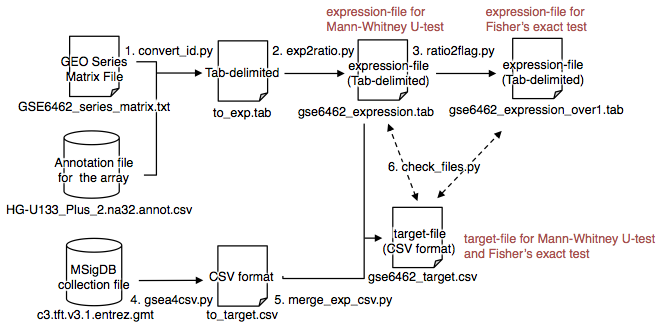
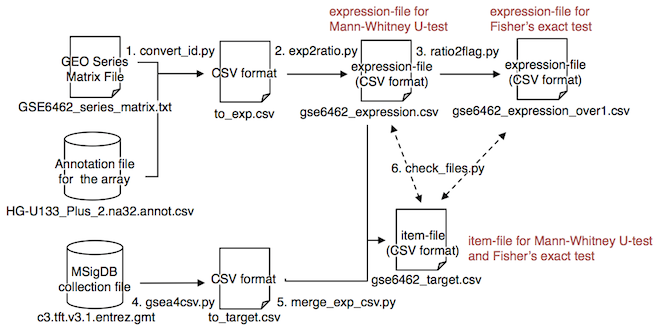
modify data preparation

diff --git a/data_preparation.html b/data_preparation.html
@@ -105,16 +105,16 @@
 
 <p>First, please download these files and decompress them in <code>lamp</code> directory. Then, try the following 6 commands:</p>
 
-<pre><code>$ python convert_id.py HG-U133_Plus_2.na32.annot.csv GSE6462_series_matrix.txt to_exp.tab
-$ python exp2ratio.py -t 12 to_exp.tab gse6462_expression.tab
-$ python ratio2flag.py gse6462_expression.tab 1.0 gse6462_expression_over1.tab
-$ python gsea4csv.py c3.tft.v3.0.entrez.gmt to_target.csv
-$ python merge_exp_csv.py gse6462_expression.tab to_target.csv gse6462_target.csv
-$ python check_files.py gse6462_target.csv gse6462_expression.tab</code></pre>
+<pre><code>$ python convert_id.py HG-U133_Plus_2.na32.annot.csv GSE6462_series_matrix.txt to_exp.csv
+$ python exp2ratio.py -t 12 to_exp.csv gse6462_expression.csv
+$ python ratio2flag.py gse6462_expression.csv 1.0 gse6462_expression_over1.csv
+$ python gsea4csv.py c3.tft.v3.0.entrez.gmt to_item.csv
+$ python merge_exp_csv.py gse6462_expression.csv to_item.csv gse6462_item.csv
+$ python check_files.py gse6462_item.csv gse6462_expression.csv</code></pre>
 
-<p><code>gse6462_expression.tab</code>, <code>gse6462_expression_over1.tab</code> and <code>gse6462_target.csv</code> are generated by the above commands. The commands generate two other intermediate files: <code>to_exp.txt</code> and <code>to_target.csv</code>. The next figure illustrates the flow of the conversion files.</p>
+<p><code>gse6462_expression.csv</code>, <code>gse6462_expression_over1.csv</code> and <code>gse6462_item.csv</code> are generated by the above commands. The commands generate two other intermediate files: <code>to_exp.csv</code> and <code>to_item.csv</code>. The next figure illustrates the flow of the conversion files.</p>
 
-<p><img alt='Image not found' src='images/flow.png' /></p>
+<p><img src='images/flow.png' alt='Image not found' /></p>
 
 <p>The flow is derived from the 6 codes:</p>
 
@@ -137,7 +137,7 @@ $ python check_files.py gse6462_target.csv gse6462_expression.tab</code></pre>
 <dl>
 <dt>exp2ratio.py</dt>
 
-<dd>This code is written for the <code>GSE6462_series_matrix.txt</code>, which calculates target-condition&#8217;s log2 ratio of the expression levels to the control conditions for each gene.</dd>
+<dd>This code is written for the <code>GSE6462_series_matrix.txt</code>, which calculates target condition&#8217;s log2 ratio of the expression levels to the control conditions for each gene.</dd>
 
 <dd>Option -t: The target condition column number. The number starts 3 (column 0 is for the gene name, and columns 2 and 3 are control conditions).</dd>
 
@@ -183,7 +183,7 @@ $ python check_files.py gse6462_target.csv gse6462_expression.tab</code></pre>
 
 <dd>Argument 2: CSV format file that contains the associations between the gene and TF.</dd>
 
-<dd>Argument 3: The output file (target-file to LAMP)</dd>
+<dd>Argument 3: The output file (item-file to LAMP)</dd>
 </dl>
 </li>
 
@@ -191,9 +191,9 @@ $ python check_files.py gse6462_target.csv gse6462_expression.tab</code></pre>
 <dl>
 <dt>check_files.py</dt>
 
-<dd>Checking the gene set in both the target-file and the expression-file. When the two files contain different genes, these genes is printed. This code is available for any situation.</dd>
+<dd>Checking the gene set in both the item-file and the expression-file. When the two files contain different genes, these genes is printed. This code is available for any situation.</dd>
 
-<dd>Argument 1: The target-file for LAMP.</dd>
+<dd>Argument 1: The item-file for LAMP.</dd>
 
 <dd>Argument 2: The expression-file for LAMP.</dd>
 </dl>
